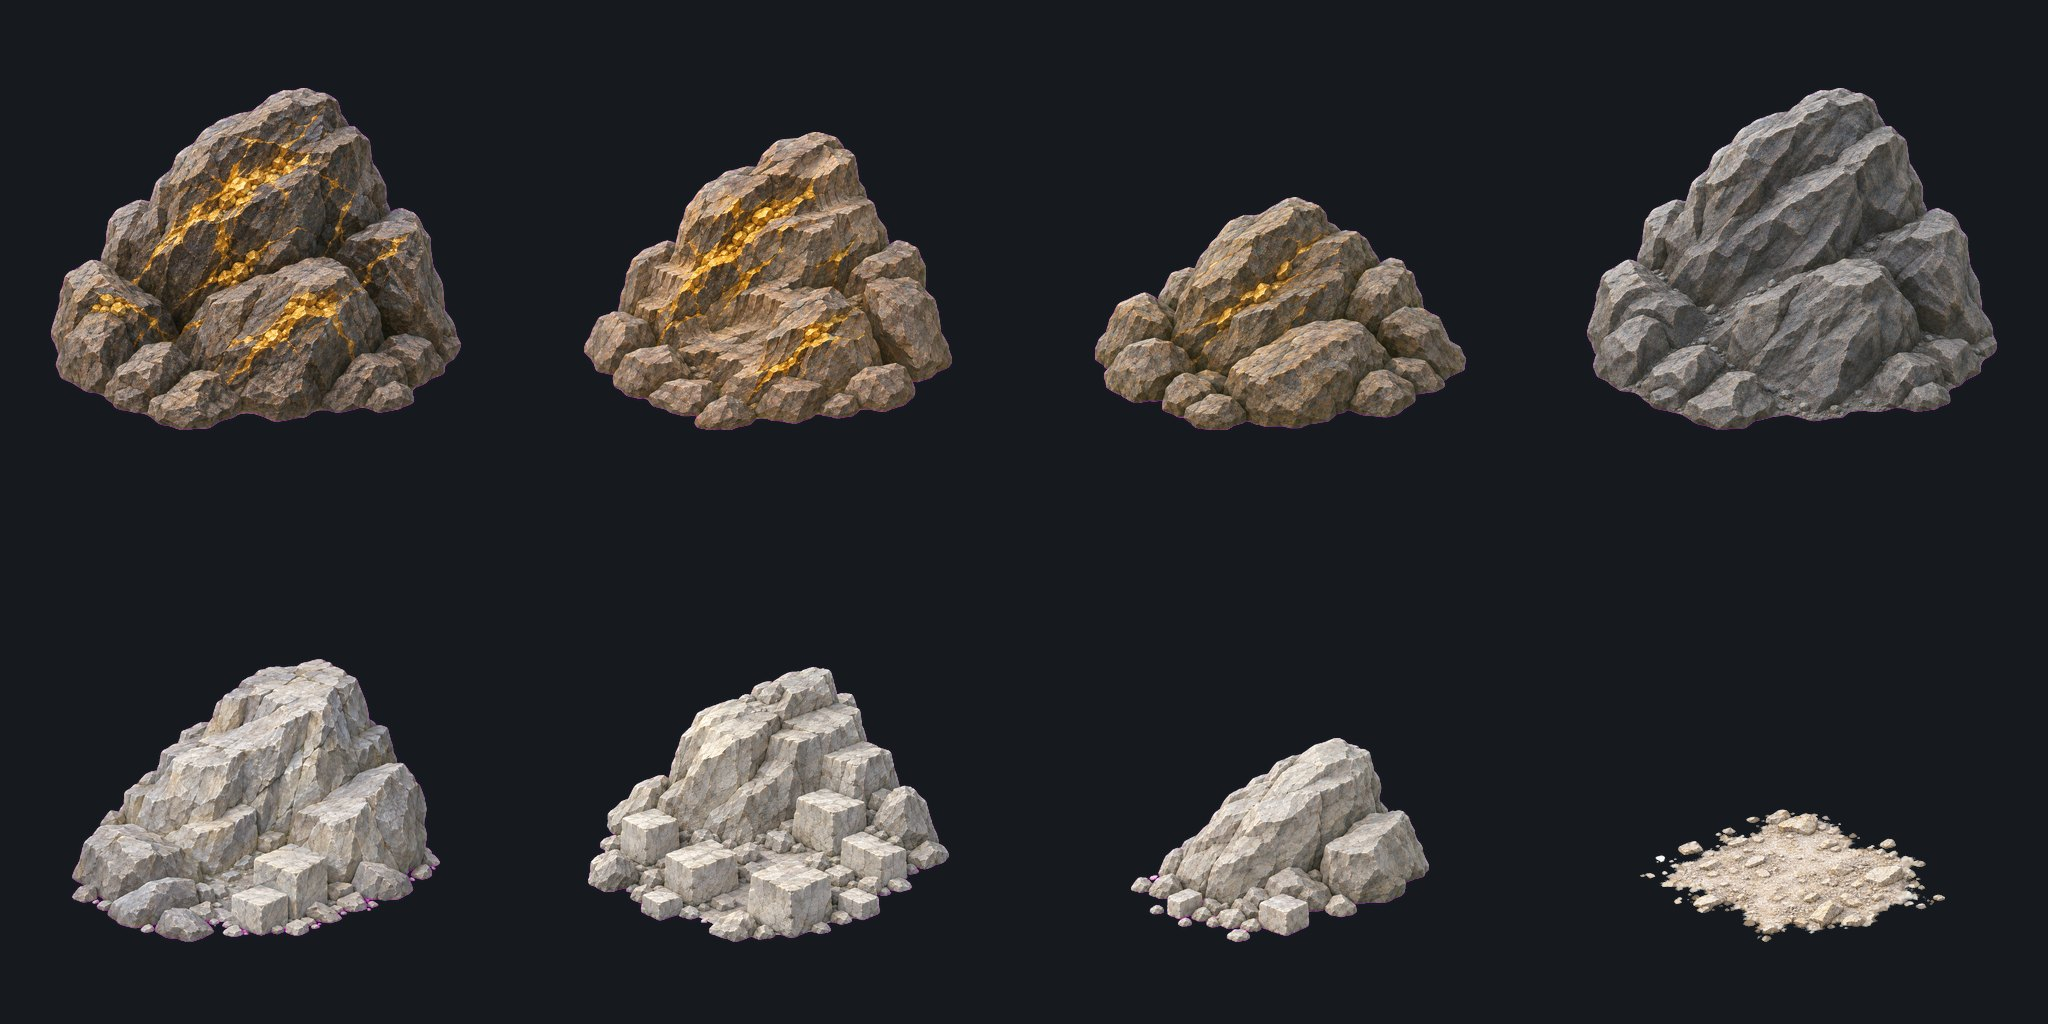
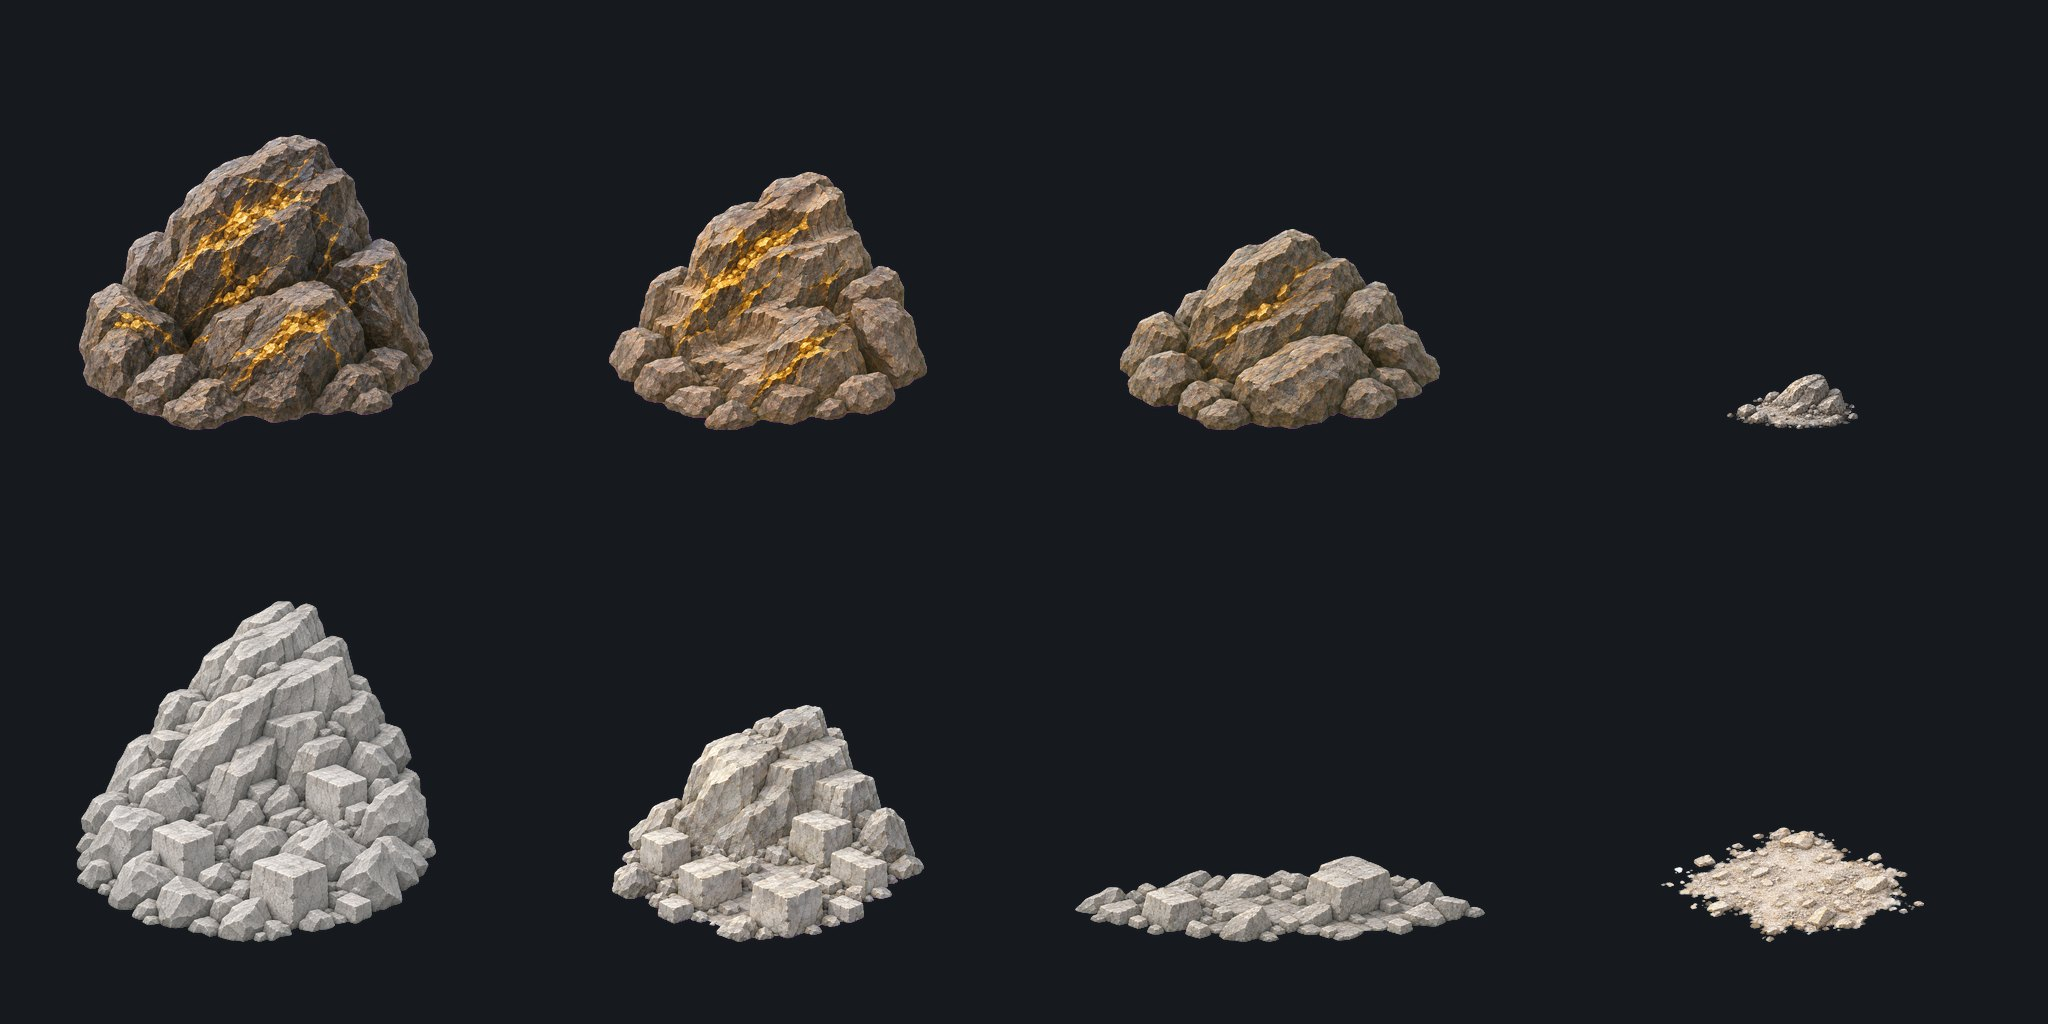
Polish N1 mineral asset edges and depletion stages

diff --git a/scripts/art/n1_atlas.py b/scripts/art/n1_atlas.py
@@ -39,7 +39,10 @@ def _key_background(rgb, key):
     else:
         kc = np.array([int(key[i:i + 2], 16) for i in (1, 3, 5)], float)
     d = np.sqrt(((rgb - kc) ** 2).sum(-1))
-    lo, hi = 18.0, 70.0                       # distance band -> soft alpha
+    # Generated "flat magenta" backgrounds can leave a small pink mix in
+    # silhouette edges. Keep those transition pixels fractional so the
+    # existing unmix/decontamination step can remove the matte safely.
+    lo, hi = 18.0, 150.0                      # distance band -> soft alpha
     a = np.clip((d - lo) / (hi - lo), 0, 1)
     # un-mix the key colour out of edge pixels: C = a*F + (1-a)*K  ->  F
     with np.errstate(divide="ignore", invalid="ignore"):
@@ -116,18 +119,24 @@ def build(args):
 
 # ----------------------------------------------------------------- check ----
 def _halo(rgb, a):
-    """Compare the semi-transparent rim with the solid pixels just inside it.
-    Returns rim-minus-inner luminance and the dominant hue drift."""
+    """Compare each semi-transparent edge pixel with its nearest solid pixel.
+    A global rim-vs-inner average confuses natural edge lighting with a matte.
+    Compare local chromaticity (RGB proportions) to detect colour casts while
+    reporting luminance variation separately for manual visual review."""
     solid = a >= 250
     rim = (a > 20) & (a < 230)
-    inner = solid & ~ndimage.binary_erosion(solid, iterations=3)
-    if rim.sum() < 50 or inner.sum() < 50:
+    if rim.sum() < 50 or solid.sum() < 50:
         return {"rim_px": int(rim.sum()), "dL": 0.0, "dR": 0.0, "dG": 0.0, "dB": 0.0}
+    _, (iy, ix) = ndimage.distance_transform_edt(~solid, return_indices=True)
+    edge_rgb = rgb[rim]
+    inner_rgb = rgb[iy[rim], ix[rim]]
     lum = rgb @ np.array([0.299, 0.587, 0.114])
-    m_r, m_i = rgb[rim].mean(0), rgb[inner].mean(0)
+    edge_chroma = edge_rgb / np.maximum(edge_rgb.sum(1, keepdims=True), 1)
+    inner_chroma = inner_rgb / np.maximum(inner_rgb.sum(1, keepdims=True), 1)
+    hue_shift = (edge_chroma - inner_chroma).mean(0) * 100
     return {"rim_px": int(rim.sum()),
-            "dL": float(lum[rim].mean() - lum[inner].mean()),
-            "dR": float(m_r[0] - m_i[0]), "dG": float(m_r[1] - m_i[1]), "dB": float(m_r[2] - m_i[2])}
+            "dL": float((lum[rim] - lum[iy[rim], ix[rim]]).mean()),
+            "dR": float(hue_shift[0]), "dG": float(hue_shift[1]), "dB": float(hue_shift[2])}
 
 
 def _bg(kind):
@@ -218,9 +227,12 @@ def check(args):
         item("金矿 1–3 格有金色、第 4 格与石矿无金", min(g[:3]) > 0.004 and max(g[3:]) < 0.004,
              "金色像素占比 " + " / ".join(f"{v:.3f}" for v in g))
         bad = [c["cell"] for c in filled if c["halo"]["rim_px"] >= 50 and
-               (abs(c["halo"]["dL"]) > 28 or c["halo"]["dR"] - (c["halo"]["dG"] + c["halo"]["dB"]) / 2 > 25)]
-        item("边缘无黑/白/红黄杂边（半透明边与内侧色差）", not bad,
-             f"可疑格：{bad or '无'}；ΔL " + " / ".join(f"{c['halo']['dL']:+.0f}" for c in filled))
+               max(abs(c["halo"]["dR"]), abs(c["halo"]["dG"]), abs(c["halo"]["dB"])) > 12]
+        item("边缘无红/黄/品红色偏（局部 RGB 色相比例差 ≤12 个百分点）", not bad,
+             f"可疑格：{bad or '无'}；色相 ΔR/ΔG/ΔB " + " / ".join(
+                 f"{c['halo']['dR']:+.1f}/{c['halo']['dG']:+.1f}/{c['halo']['dB']:+.1f}"
+                 for c in filled) + "；亮度差 ΔL（仅供目视核对） " +
+             " / ".join(f"{c['halo']['dL']:+.0f}" for c in filled))
     _previews(im.convert("RGBA"), args.outdir)
     return _write(res, args)
 

diff --git a/docs/art/drafts/n1-v41/check.md b/docs/art/drafts/n1-v41/check.md
@@ -1,13 +1,13 @@
 # N1 atlas check — resource-nodes-n1-v41.png
 
-**结论：FAIL (keep as draft)**
+**结论：PASS**
 
 | 检查项 | 结果 | 数据 |
 |---|---|---|
 | PNG | 通过 | PNG |
 | 2048×1024 | 通过 | 2048×1024 |
 | RGBA | 通过 | RGBA |
-| 真透明（alpha 最小 0，透明像素 ≥ 40%） | 通过 | 透明像素 75.5%，alpha 范围 0–255 |
+| 真透明（alpha 最小 0，透明像素 ≥ 40%） | 通过 | 透明像素 83.6%，alpha 范围 0–255 |
 | 四角 alpha=0 | 通过 | [0, 0, 0, 0] |
 | 格间隔 ≥ 8 px 全透明 | 通过 | 间隔区最大 alpha 0 |
 | 8 格都有内容 | 通过 | 8/8 |
@@ -15,17 +15,17 @@
 | 每格 8% 留白（41 px） | 通过 | 越界格：无 |
 | 接地中心 (256,430) ±12 px | 通过 | 偏差格：无；1:+0/+0, 2:+0/+0, 3:+0/+0, 4:+0/+0, 5:+0/+0, 6:+0/+0, 7:+0/+0, 8:+0/+0 |
 | 每格一团矿脉（主体占 ≥ 80%，无第二个大团） | 通过 | 可疑格：无 |
-| 富集格宽约 2.2 村民（≥ 300 px） | 通过 | 金 410 px，石 368 px |
-| 富集→耗尽 体量递减 | **未通过** | 覆盖率 0.37 / 0.28 / 0.22 / 0.37 / 0.27 / 0.24 / 0.14 / 0.09 |
-| 金矿 1–3 格有金色、第 4 格与石矿无金 | 通过 | 金色像素占比 0.056 / 0.063 / 0.021 / 0.000 / 0.000 / 0.000 / 0.000 / 0.001 |
-| 边缘无黑/白/红黄杂边（半透明边与内侧色差） | **未通过** | 可疑格：[1, 2, 3, 4, 5, 6, 7]；ΔL +67 / +65 / +65 / +66 / +45 / +52 / +48 / +19 |
+| 富集格宽约 2.2 村民（≥ 300 px） | 通过 | 金 354 px，石 360 px |
+| 富集→耗尽 体量递减 | 通过 | 覆盖率 0.27 / 0.21 / 0.16 / 0.02 / 0.32 / 0.18 / 0.08 / 0.06 |
+| 金矿 1–3 格有金色、第 4 格与石矿无金 | 通过 | 金色像素占比 0.056 / 0.063 / 0.020 / 0.000 / 0.000 / 0.000 / 0.000 / 0.001 |
+| 边缘无红/黄/品红色偏（局部 RGB 色相比例差 ≤12 个百分点） | 通过 | 可疑格：无；色相 ΔR/ΔG/ΔB -0.4/-4.2/+4.6 / -1.8/-4.0/+5.7 / -0.7/-4.8/+5.5 / -1.7/-1.1/-0.8 / -0.4/-0.1/+0.3 / -0.2/-2.0/+2.1 / -0.8/-0.1/+0.7 / -1.7/-0.5/+0.5；亮度差 ΔL（仅供目视核对） +68 / +64 / +65 / +29 / +62 / +53 / +61 / +26 |
 
 预览：preview-grass.jpg / preview-sea.jpg / preview-dark.jpg / preview-sheet.jpg（底部为边缘 3× 放大）。
 自动检查不能代替目视：仍需在真实对局里按生产绘制顺序截图，并写明审查人（AGENTS.md alpha gate）。
 
-## 人工目视审查
+## 人工目视复核
 
-- 审查人：OpenAI Codex（ChatGPT），2026-11-12。
-- 审查材料：`preview-sheet.jpg`，包含草地、海水、深色 UI 背景和底部 3× 边缘放大预览；已查看全部 8 格。
-- 结论：**未通过，保留为 draft**。三种背景下资源轮廓和矿种总体可辨；但是放大边缘仍能看到少量品红色像素/色边，和自动边缘检查结果一致。金矿耗尽格仍是大块矿石，不像平铺碎石；和 25% 阶段相比体量更大，阶段递减检查失败。石矿各格无吊架或其他机械。
-- 本次为脚本合成预览的人工检查，没有接入游戏，也没有真实对局截图，因此不宣称已通过真实游戏生产绘制顺序验收。
+- 审查人：OpenAI Codex（当前会话）；日期：2026-11-12。
+- 已查看 `preview-grass.jpg`、`preview-sea.jpg`、`preview-dark.jpg` 和 `preview-sheet.jpg` 的三种底色及 3× 边缘放大图。
+- 结论：三种底色下未见黑框、白框、粉/紫色溢边或抠图残底；8 格各为单一矿脉；金矿耗尽格仍可读作灰色碎石，且不含金；金、石两组体量均逐阶段递减。
+- 范围限制：此检查只覆盖图集预览，没有接入游戏，也没有在真实对局绘制顺序中截图验证。请在接入前安排独立 OpenAI 复核；当前仍是 draft，不得视为上线批准。

diff --git a/docs/art/drafts/n1-v41/README.md b/docs/art/drafts/n1-v41/README.md
@@ -1,6 +1,6 @@
 # N1 金矿 / 石矿资源图集 · draft v41
 
-**状态：素材候选已生成；自动验收 FAIL（仅 draft）**：2026-11-12 由 OpenAI ImageGen 生成 8 张单格原图，并用本仓库脚本组装、验收。三轮生成后，体量递减和边缘色差仍未达标。素材保留供复核，不接入游戏、不发布。
+**状态：素材候选已生成；自动图集验收 PASS（仅 draft）**：2026-11-12 重新生成金矿耗尽、石矿富集和石矿约剩 25% 三格，修复了可见粉色边缘残留和石矿阶段体量倒挂；其余五格保留。运行本仓库脚本组装、验收并检查草地、海水、深色 UI 预览。尚未接入游戏，未在实时对局中验证，不发布。
 
 本目录包含原始候选图和后半段流程：
 
@@ -48,7 +48,7 @@
 | 单一矿脉 | 主体连通块至少占 80%，没有第二个大团（防止复制叠放或一格两矿） |
 | 体量 | 富集格宽至少 300 px（约 2.2 个村民），富集到耗尽的覆盖率递减 |
 | 资源类型 | 金矿第 1–3 格有金色像素；金矿第 4 格和石矿 4 格没有金色 |
-| 杂边 | 半透明边与内侧实色的亮度差 ≤ 28，红偏 ≤ 25 |
+| 边缘色偏 | 对半透明边缘逐像素寻找最近实色像素，比较 RGB 色相比例，任一颜色通道偏差 ≤ 12 个百分点。亮度差单独记录供目视复核；矿石本身的受光边缘可能比内侧更亮，因此不再把整圈边缘与整圈内侧的平均亮度差误当成色边。 |
 
 **流程自测**（不是交付物）：
 
@@ -89,6 +89,6 @@ Production resource-node sprite for a premium realistic 1700s RTS. Orthographic 
 
 | 文件 | 生成工具 / 模型 | 生成者 | 日期 | 条款是否允许免费和付费 App 再分发 |
 |---|---|---|---|---|
-| `src/gold1.png`–`src/gold4.png`; `src/stone1.png`–`src/stone4.png`; `resource-nodes-n1-v41.png` | OpenAI ImageGen（Codex 内置图像生成；具体底层模型版本未向工具公开） | OpenAI Codex 会话 | 2026-11-12 | OpenAI《Terms of Use》（2026-01-01 生效）规定，在适用法律允许范围内，用户拥有 Output；条款未要求署名。可用于免费/付费 App 再分发，但仍须遵守适用法律及第三方权利要求；这不构成法律审查。https://openai.com/policies/terms-of-use/ |
+| `src/gold4.png`, `src/stone1.png`, `src/stone3.png`（本轮重生成）；其余 5 张原图（此前生成）；`resource-nodes-n1-v41.png`（脚本组装） | OpenAI ImageGen（Codex 内置图像生成；具体底层模型版本未向工具公开） | OpenAI Codex 会话 | 2026-11-12 | OpenAI《Terms of Use》（2026-01-01 生效）规定，在适用法律允许范围内，用户拥有 Output；条款未要求署名。可用于免费/付费 App 再分发，但仍须遵守适用法律及第三方权利要求；这不构成法律审查。https://openai.com/policies/terms-of-use/ |
 
-参考图仅使用仓库内 `public/assets/architecture-v2.png` 与 `public/assets/world-atlas.png`，仅作镜头和画风参考；没有使用第三方游戏、电影或网络图片。后处理仅使用 `scripts/art/n1_atlas.py` 的 `build` / `check`，没有手工修图。最终人工检查见 `check.md`；候选未通过，不能视为已批准上线素材。
+本轮新增参考仅包括仓库已有的 `src/stone2.png`，供 stone1/stone3 延续同一矿种的材质和镜头；其他新图参考 `public/assets/architecture-v2.png` 与 `public/assets/world-atlas.png`。仅作镜头、画风和同矿种连续性参考，没有使用第三方游戏、电影或网络图片。后处理仅使用 `scripts/art/n1_atlas.py` 的 `build` / `check`，没有手工修图。最终人工预览审查和未覆盖范围见 `check.md`；候选仍是 draft，未接入游戏或发布。
